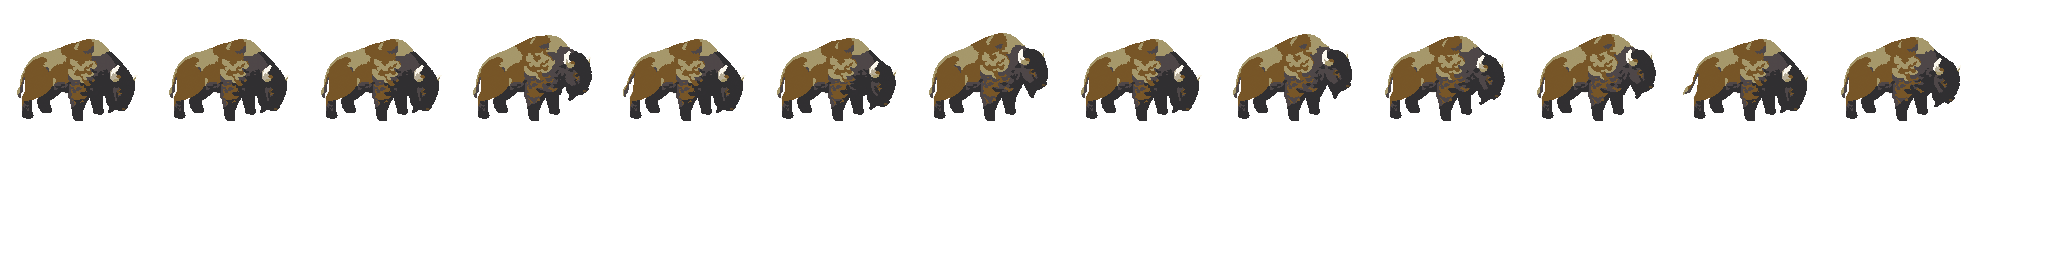
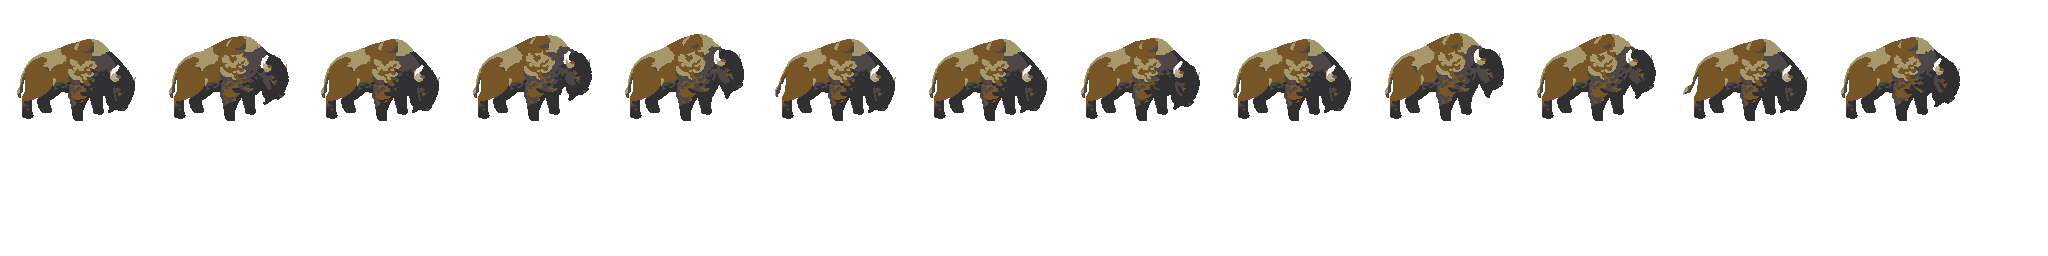
transferred some assets to gameasset class, kath sprite animated from atlas

diff --git a/core/src/objects/animals/bison/Bison.java b/core/src/objects/animals/bison/Bison.java
@@ -7,7 +7,8 @@ import com.badlogic.gdx.physics.box2d.Body;
 import com.badlogic.gdx.utils.Array;
 import com.mygdx.eightfold.GameScreen;
 import helper.movement.AnimalMovementHelper;
-import objects.animals.helper.BisonManager;
+import objects.GameAssets;
+import objects.animals.object_helper.BisonManager;
 import objects.player.GameEntity;
 
 import static helper.Constants.FRAME_DURATION;
@@ -22,23 +23,27 @@ public class Bison extends GameEntity {
     private int id;
     private Sprite sprite;
     private TextureAtlas textureAtlas;
-    private AssetManager assetManager;
-
+    private GameAssets gameAssets;
+    private  TextureAtlas grazingAtlas;
     public Bison(float width, float height, float x, float y, Body body, boolean isFacingRight, GameScreen gameScreen, int bisonId) {
         super(0, 0, body, gameScreen);
         this.stateTime = 0f;
         this.id = bisonId;
         this.isFacingRight = isFacingRight;
         this.body = body;
-
+        this.gameAssets = new GameAssets();
         // Load animations
         loadAnimations();
 
         // Initialize the sprite with the first frame of the animation
         this.sprite = new Sprite(currentAnimation.getKeyFrame(0));
         this.sprite.setSize(width, height);
-
+        gameAssets.loadAssets();
+        gameAssets.finishLoading();
+        this.grazingAtlas = gameAssets.getAtlas("animals/bison/grazing/atlas/bison-grazing.atlas");
         BisonManager.addBison(this);
+        System.out.println("animation from atlas: " + createGrazingAnimationFromAtlas());
+
     }
 
     @Override
@@ -77,6 +82,20 @@ public class Bison extends GameEntity {
         this.body = body;
     }
 
+    private Animation<TextureRegion> createGrazingAnimationFromAtlas() {
+        Array<TextureRegion> frames = new Array<>();
+        TextureAtlas atlas = gameAssets.getAtlas("animals/bison/grazing/atlas/bison-grazing.atlas");
+        for (int i = 0; i <= 39; i++) {
+            TextureRegion region = atlas.findRegion("Bison_Grazing",  i);
+            if (region != null) {
+                frames.add(region);
+            } else {
+                System.out.println("Region Bison_Grazing_" + i + " not found!");
+            }
+        }
+        return new Animation<>(FRAME_DURATION, frames, Animation.PlayMode.LOOP);
+    }
+
     public void playerContact(Body body, int bisonId, float linearVelocity) {
         body.setLinearDamping(1.5f);
         body.setLinearVelocity(linearVelocity, 0); // Adjust the linear velocity
@@ -85,6 +104,7 @@ public class Bison extends GameEntity {
     private void loadAnimations() {
         stationaryAnimation = loadAnimation("animals/bison/grazing/Bison_Grazing_", 40);
         walkingAnimation = loadWalkingAnimation();
+
         currentAnimation = stationaryAnimation; // Default to stationary animation
     }
 
@@ -94,19 +114,6 @@ public class Bison extends GameEntity {
             String filename = basePath + i + ".png";
             Texture texture = new Texture(filename);
             frames.add(new TextureRegion(texture));
-        }
-        return new Animation<>(FRAME_DURATION, frames, Animation.PlayMode.LOOP);
-    }
-    private Animation<TextureRegion> loadGrazingAtlas() {
-        Array<TextureRegion> frames = new Array<>();
-        TextureAtlas atlas = new TextureAtlas("animals/bison/grazing/atlas/bison-grazing.atlas");
-        for (int i = 1; i <= 40; i++) {
-            TextureRegion region = atlas.findRegion("Bison_Grazing-" + i);
-            if (region != null) {
-                frames.add(region);
-            } else {
-                System.out.println("Region bison-horizontal-" + i + " not found!");
-            }
         }
         return new Animation<>(FRAME_DURATION, frames, Animation.PlayMode.LOOP);
     }
@@ -125,13 +132,15 @@ public class Bison extends GameEntity {
         return new Animation<>(FRAME_DURATION, frames, Animation.PlayMode.LOOP);
     }
 
+
+
     private void updateAnimation() {
         boolean isMovingRight = body.getLinearVelocity().x > 0;
         float movementThreshold = 1;
 
         if (Math.abs(body.getLinearVelocity().x) < movementThreshold) {
             // If velocity is below the threshold, use stationary animation
-            sprite.setRegion(stationaryAnimation.getKeyFrame(stateTime, true));
+            sprite.setRegion(createGrazingAnimationFromAtlas().getKeyFrame(stateTime, true));
             if (!isFacingRight) {
                 sprite.flip(true, false);
             }
@@ -141,6 +150,7 @@ public class Bison extends GameEntity {
         } else {
             // If moving left, use walking animation flipped horizontally
             TextureRegion flippedWalkingRegion = new TextureRegion(walkingAnimation.getKeyFrame(stateTime, true));
+
             flippedWalkingRegion.flip(true, false);
             sprite.setRegion(flippedWalkingRegion);
         }

diff --git a/core/src/objects/player/Player.java b/core/src/objects/player/Player.java
@@ -3,79 +3,128 @@ package objects.player;
 import com.badlogic.gdx.Gdx;
 import com.badlogic.gdx.Input;
 import com.badlogic.gdx.graphics.Texture;
-import com.badlogic.gdx.graphics.g2d.Sprite;
-import com.badlogic.gdx.graphics.g2d.SpriteBatch;
+import com.badlogic.gdx.graphics.g2d.*;
 import com.badlogic.gdx.physics.box2d.Body;
+import com.badlogic.gdx.utils.Array;
 import com.mygdx.eightfold.GameScreen;
+import objects.GameAssets;
 
+import static helper.Constants.FRAME_DURATION;
 import static helper.Constants.PPM;
 
 public class Player extends GameEntity {
-
+    private GameAssets gameAssets;
     private Sprite sprite;
     private boolean isFacingRight;
+    private Animation<TextureRegion> walkingAnimation;
+    private Texture idleTexture;
+    private TextureRegion idleRegion;
+    private Animation<TextureRegion> currentAnimation;
+    private float stateTime;
+
     public Player(float width, float height, Body body, GameScreen gameScreen) {
         super(width, height, body, gameScreen);
         this.speed = 20f;
-        this.sprite = new Sprite(new Texture("kath.gif"));
-        this.sprite.setSize(width, height);
-
         this.isFacingRight = false;
         this.body = body;
+        gameAssets = new GameAssets();
+        gameAssets.loadAssets();
+        gameAssets.finishLoading();
 
+        // Load idle texture
+        idleTexture = new Texture("kath.gif");
+        idleRegion = new TextureRegion(idleTexture);
+
+        // Initialize animations
+        walkingAnimation = createWalkingAnimationFromAtlas();
+        currentAnimation = null;
+
+        // Initialize sprite with the idle texture
+        this.sprite = new Sprite(idleRegion);
+        this.sprite.setSize(width, height);
     }
 
     @Override
     public void update(float delta) {
+        stateTime += delta; // Update the state time
+
         x = body.getPosition().x * PPM;
         y = body.getPosition().y * PPM;
 
         checkUserInput();
-
-
+        updateAnimation();
     }
 
     @Override
     public void render(SpriteBatch batch) {
         sprite.draw(batch);
-        sprite.setPosition(x - width / 2 , y - height /2);
-
-
+        sprite.setPosition(x - width / 2, y - height / 2);
     }
 
+    private Animation<TextureRegion> createWalkingAnimationFromAtlas() {
+        Array<TextureRegion> frames = new Array<>();
+        TextureAtlas atlas = gameAssets.getAtlas("kath_walk/atlas/kath-walk.atlas");
 
+        // Use the region names and bounds specified in the atlas file
+        String[] regionNames = {"kath_walk"};
+        int[] regionIndices = {0, 1, 2, 3, 4, 5, 6, 7};
+        for (int index : regionIndices) {
+            TextureRegion region = atlas.findRegion(regionNames[0], index);
+            if (region != null) {
+                frames.add(region);
+            } else {
+                System.out.println("Region " + regionNames[0] + " with index " + index + " not found!");
+            }
+        }
+
+        return new Animation<>(FRAME_DURATION, frames, Animation.PlayMode.LOOP);
+    }
 
     private void checkUserInput() {
         velX = 0;
         velY = 0;
-        if (Gdx.input.isKeyPressed(Input.Keys.D)){
+        if (Gdx.input.isKeyPressed(Input.Keys.D)) {
             velX = 1;
-            if(isFacingRight == false) {
+            if (!isFacingRight) {
                 isFacingRight = true;
-                sprite.flip(true, false);
             }
 
         }
-        if (Gdx.input.isKeyPressed(Input.Keys.A)){
+        if (Gdx.input.isKeyPressed(Input.Keys.A)) {
             velX = -1;
-            if(isFacingRight == true) {
+            if (isFacingRight) {
                 isFacingRight = false;
-                sprite.flip(true, false);
             }
 
-
         }
-        if (Gdx.input.isKeyPressed(Input.Keys.W)){
+        if (Gdx.input.isKeyPressed(Input.Keys.W)) {
             velY = 1;
-
         }
-        if (Gdx.input.isKeyPressed(Input.Keys.S)){
+        if (Gdx.input.isKeyPressed(Input.Keys.S)) {
             velY = -1;
-
         }
         body.setLinearVelocity(velX * speed, velY * speed);
+    }
 
+    private void updateAnimation() {
+        if (Math.abs(velX) > 0) {
+            currentAnimation = walkingAnimation;
+            TextureRegion frame = currentAnimation.getKeyFrame(stateTime, true);
+            System.out.println("facing right: " + isFacingRight);
 
+            if (isFacingRight && !frame.isFlipX()) {
+                frame.flip(true, false);
+            } else if (!isFacingRight && frame.isFlipX()) {
+                frame.flip(true, false);
+            }
+            sprite.setRegion(frame);
+        } else {
+            currentAnimation = null;
+            sprite.setRegion(idleRegion);
+            if (isFacingRight) {
+                sprite.flip(true, false);
+            }
+        }
     }
 
     public void setBody(Body body) {

diff --git a/core/src/objects/inanimate/Tree.java b/core/src/objects/inanimate/Tree.java
@@ -20,7 +20,6 @@ public class Tree extends InanimateEntity {
     public static final int SMALL = 3;
     public static final int JUVENILE = 4;
     public static final int SEEDLING = 5;
-    private AssetManager assetManager;
     private final int treeType;
     private float stateTime;
     private Animation<TextureRegion>[] treeAnimations;
@@ -31,7 +30,6 @@ public class Tree extends InanimateEntity {
         this.stateTime = 0f;
         this.treeType = treeType;
         treeAnimations = new Animation[6]; // Array to hold animations for 6 tree types
-        this.assetManager = new AssetManager();
         initAnimations();
     }
 
@@ -64,7 +62,7 @@ public class Tree extends InanimateEntity {
 
             TextureRegion region = atlas.findRegion("oak-trees-" + treeType + "-" + i);
             if (region == null) {
-                System.out.println("Region oak-trees-" + treeType + "-" + i + " not found!");
+                //System.out.println("Region oak-trees-" + treeType + "-" + i + " not found!");
             } else {
                 frames.add(region);
 

diff --git a/core/src/objects/inanimate/Boulder.java b/core/src/objects/inanimate/Boulder.java
@@ -7,18 +7,25 @@ import com.badlogic.gdx.graphics.g2d.Sprite;
 import com.badlogic.gdx.graphics.g2d.SpriteBatch;
 import com.badlogic.gdx.physics.box2d.Body;
 import com.mygdx.eightfold.GameScreen;
+import objects.GameAssets;
 
 import static helper.Constants.PPM;
 
 public class Boulder extends InanimateEntity {
-
+    private GameAssets gameAssets;
     private final int boulderId;
     private Sprite sprite;
     private boolean isFacingRight;
     public Boulder(float width, float height, Body body, GameScreen gameScreen, int boulderId) {
         super(width, height, body, gameScreen, boulderId);
         this.speed = 10f;
-        this.sprite = new Sprite(new Texture("boulder.png"));
+        this.gameAssets = new GameAssets();
+        gameAssets.loadAssets();
+        gameAssets.finishLoading();
+
+        Texture boulderTexture = gameAssets.getTexture("boulder.png");
+        this.sprite = new Sprite(boulderTexture);
+
         this.sprite.setSize(width, height);
         this.boulderId = boulderId;
         this.isFacingRight = false;

diff --git a/core/src/objects/GameAssets.java b/core/src/objects/GameAssets.java
@@ -14,12 +14,14 @@ public class GameAssets {
     public void loadAssets() {
         // Load the texture atlas
         assetManager.load("plants/trees/atlases/oak-trees.atlas", TextureAtlas.class);
-        assetManager.load("bird.png", Texture.class);
+        assetManager.load("animals/birds/bird.png", Texture.class);
+        assetManager.load("boulder.png", Texture.class);
+        assetManager.load("animals/bison/grazing/atlas/bison-grazing.atlas", TextureAtlas.class);
+        assetManager.load("kath_walk/atlas/kath-walk.atlas", TextureAtlas.class);
         // Load individual textures for bison grazing
         for (int i = 0; i <= 39; i++) {
             String filename = "animals/bison/grazing/Bison_Grazing_" + i + ".png";
             assetManager.load(filename, Texture.class);
-
         }
 
         // Add other assets to load here

diff --git a/core/src/objects/animals/bird/Bird.java b/core/src/objects/animals/bird/Bird.java
@@ -10,7 +10,7 @@ import com.badlogic.gdx.physics.box2d.Body;
 import objects.GameAssets;
 import com.mygdx.eightfold.GameScreen;
 import helper.movement.AnimalMovementHelper;
-import objects.animals.helper.BirdManager;
+import objects.animals.object_helper.BirdManager;
 import objects.player.GameEntity;
 
 import java.util.Random;
@@ -37,7 +37,7 @@ public class Bird extends GameEntity {
         this.gameAssets = new GameAssets();
         gameAssets.loadAssets();
         gameAssets.finishLoading();
-        Texture birdTexture = gameAssets.getTexture("bird.png");
+        Texture birdTexture = gameAssets.getTexture("animals/birds/bird.png");
         this.sprite = new Sprite(birdTexture);
         this.sprite.setSize(width, height);
         this.sprite.setPosition(spriteX, spriteY);

diff --git a/core/src/com/mygdx/eightfold/GameScreen.java b/core/src/com/mygdx/eightfold/GameScreen.java
@@ -59,7 +59,8 @@ public class GameScreen extends ScreenAdapter {
         this.tiledMapHelper = new TiledMapHelper(this);
         this.orthogonalTiledMapRenderer = tiledMapHelper.setupMap();
         this.shapeRenderer = new ShapeRenderer();
-        camera.zoom = 3f; // Set camera zoom only once
+        camera.zoom = 3f;
+        // Set camera zoom only once
     }
 
 

diff --git a/core/src/com/mygdx/eightfold/GameContactListener.java b/core/src/com/mygdx/eightfold/GameContactListener.java
@@ -5,7 +5,7 @@ import helper.BodyUserData;
 import helper.ContactType;
 import objects.animals.bird.Bird;
 import objects.animals.bison.Bison;
-import objects.animals.helper.BisonManager;
+import objects.animals.object_helper.BisonManager;
 
 public class GameContactListener implements ContactListener {
 

diff --git a/core/src/objects/animals/object_helper/BisonManager.java b/core/src/objects/animals/object_helper/BisonManager.java
@@ -1,4 +1,4 @@
-package objects.animals.helper;
+package objects.animals.object_helper;
 import objects.animals.bison.Bison;
 
 import java.util.HashMap;

diff --git a/core/src/objects/animals/object_helper/BirdManager.java b/core/src/objects/animals/object_helper/BirdManager.java
@@ -1,4 +1,4 @@
-package objects.animals.helper;
+package objects.animals.object_helper;
 
 import objects.animals.bird.Bird;
 

diff --git a/core/src/helper/atlas/AtlasHelper.java b/core/src/helper/atlas/AtlasHelper.java
@@ -1,0 +1,4 @@
+package helper.atlas;
+
+public class AtlasHelper {
+}
